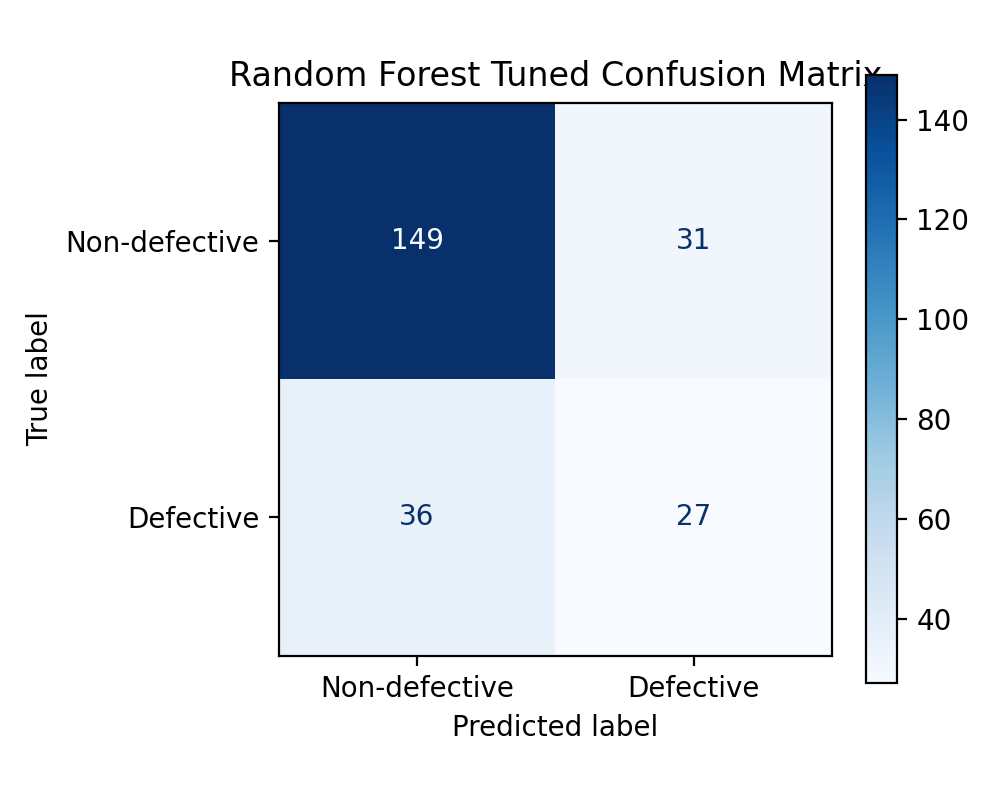
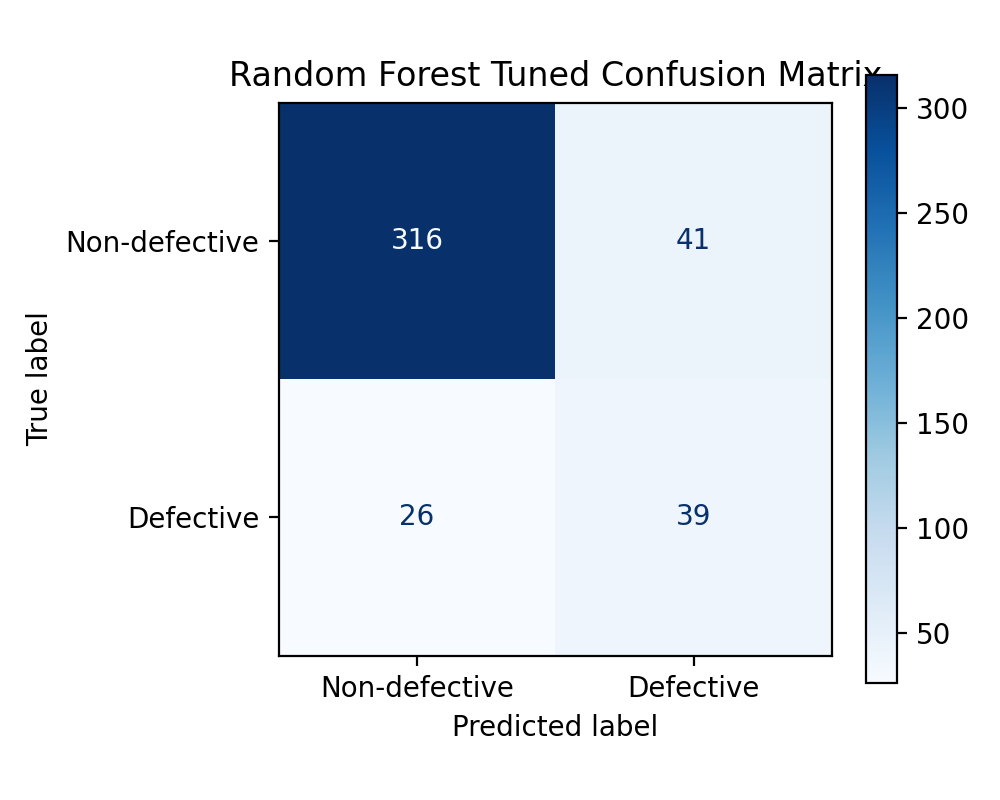
Add files via upload

diff --git a/src/train_models.py b/src/train_models.py
@@ -39,7 +39,7 @@ def load_dataset(path: Path = DATA_PATH) -> tuple[pd.DataFrame, pd.Series]:
             "Put the KC1 CSV file at data/raw/kc1.csv, then run again."
         )
 
-    df = pd.read_csv(path).drop_duplicates()
+    df = pd.read_csv(path)
     if TARGET_COLUMN not in df.columns:
         raise ValueError(
             f"Expected target column '{TARGET_COLUMN}'. Found columns: {list(df.columns)}"

diff --git a/README.md b/README.md
@@ -33,16 +33,18 @@ The dataset is split into:
 - 80% training data
 - 20% testing data
 
+The current dataset has 2109 rows, so the split creates 1687 training rows and 422 testing rows.
+
 GridSearchCV is used to tune both models on the training data. The final results are calculated using the 20% test data.
 
 ## Results
 
 | Model | Accuracy | Precision | Recall | F1-score | ROC-AUC |
 |---|---:|---:|---:|---:|---:|
-| SVM Tuned | 0.675 | 0.400 | 0.508 | 0.448 | 0.624 |
-| Random Forest Tuned | 0.724 | 0.466 | 0.429 | 0.446 | 0.618 |
+| SVM Tuned | 0.716 | 0.313 | 0.708 | 0.434 | 0.790 |
+| Random Forest Tuned | 0.841 | 0.488 | 0.600 | 0.538 | 0.822 |
 
-SVM had better recall, so it detected more defective modules. Random Forest had better accuracy and precision, so it made fewer false alarms.
+SVM had higher recall, so it detected more defective modules. Random Forest had better accuracy, precision, F1-score, and ROC-AUC.
 
 ## How to Run
 
